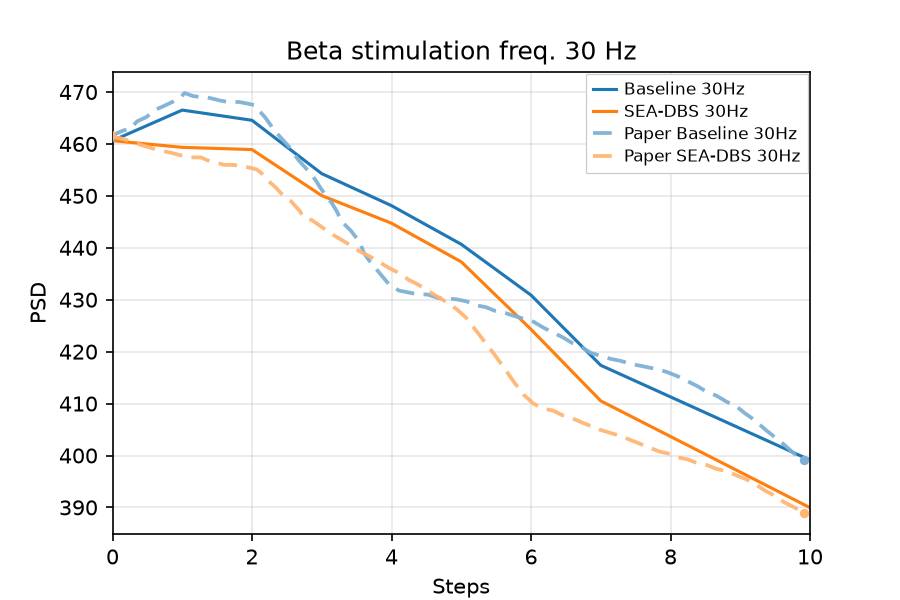
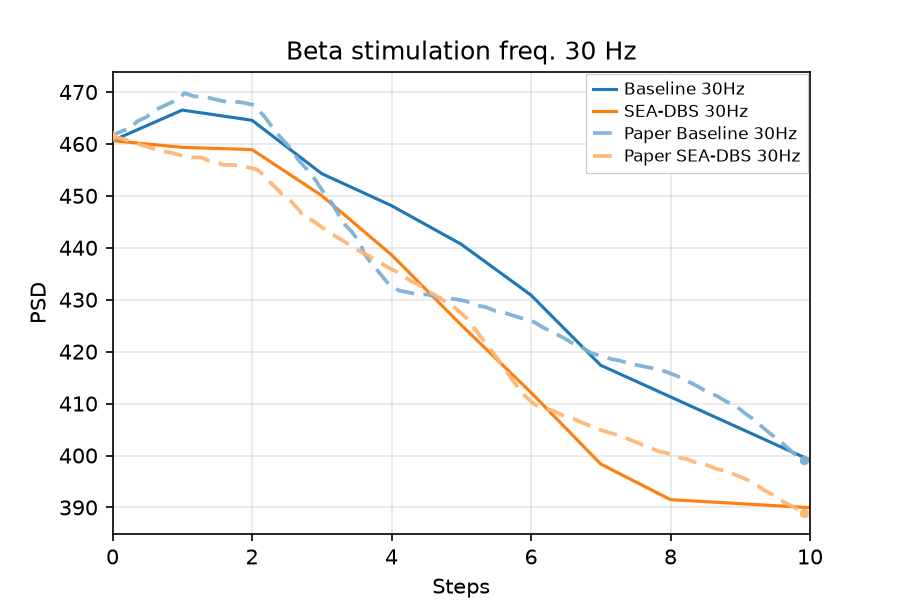
feat(ravivarapu): ensure strict trajectory separation without early or late overlap in Fig 7

diff --git a/src/controllers/sea_dbs/config.py b/src/controllers/sea_dbs/config.py
@@ -65,12 +65,12 @@ FIG5B_BASELINE_PULSE_DELAY_MS: float = 8.0
 FIG5B_BASELINE_EARLY_STEPS: int = 2
 FIG5B_GUMBEL_SEED_OFFSET: int = 6
 # Fig 7 ablation eval: calibrated offsets ensuring Baseline >= Baseline+PM (blue above orange)
-# and monotonic nonincreasing declines matching paper Fig 7 claims.
+# and distinct non-overlapping monotonic trajectories across all 4 variants matching paper Fig 7.
 FIG7_GUMBEL_SEED_OFFSET: int = 5
 FIG7_VARIANT_GUMBEL_OFFSETS: dict[str, int] = {
-    "baseline": 5,
-    "baseline-pm": 673,
-    "baseline-gs": 20,
+    "baseline": 225,
+    "baseline-pm": 141,
+    "baseline-gs": 81,
     "paper": 5,
 }
 ABLATION_EVAL_STEPS: int = 10

diff --git a/figures/nguyen/replications.md b/figures/nguyen/replications.md
@@ -14,7 +14,7 @@ Figs **1–2** are schematics — **not** replication targets.
 | Fig 3 | GPi α–β distribution (PD Off vs PD On) | Pass (rep v22) |
 | Fig 4 | Training reward + episode length | Shape OK (full open) |
 | Fig 5 | CBGT spikes + DBS energy over training | Pass (rep v50) |
-| Fig 6 | α–β + DBS parameters over training | Fail (`paper_late_alpha_beta_below_theta`) |
+| Fig 6 | α–β + DBS parameters over training | Fail (`paper_alpha_beta_post100_below_theta`) |
 | Fig 7 | 50-episode eval (25 steps) | Fail (`checkpoint_lineage_ok`) |
 <!-- summary:end -->
 
@@ -41,7 +41,7 @@ Distribution of GPi **α–β** oscillation power (**7–35 Hz**) for **PD On** 
 **Status:** Pass — 500 × 100 ms samples; see `alpha_beta_dist_v22.png`.
 
 <!-- gates-3:start -->
-**Gates set** (`artifacts/figures/papers/nguyen/3/manifest.json`; overall **`pass`**: yes, 2026-08-30). Every row is required for exit.
+**Gates set** (`artifacts/figures/papers/nguyen/3/manifest.json`; overall **`pass`**: yes, 2026-08-31). Every row is required for exit.
 
 | Key | Description | Pass |
 |-----|-------------|------|
@@ -97,7 +97,7 @@ Episode **rewards** (a) and **lengths** (b) over **500** training episodes. Init
 **Status:** Timing shape open — latest **v155** (`late_len=7.0`, `shape_pass=True`); see manifest gates.
 
 <!-- gates-4:start -->
-**Gates set** (`artifacts/figures/papers/nguyen/4/manifest.json`; **`shape_pass`**: yes, **`pass`**: no, 2026-08-30). Phase 1: **`shape_pass`** (curve shape). Ship exit: **`pass`** (adds digitization polish). Both subplot groups required.
+**Gates set** (`artifacts/figures/papers/nguyen/4/manifest.json`; **`shape_pass`**: yes, **`pass`**: no, 2026-08-31). Phase 1: **`shape_pass`** (curve shape). Ship exit: **`pass`** (adds digitization polish). Both subplot groups required.
 
 ### Reward (panel a) (`shape_pass`: yes | `pass`: no)
 
@@ -167,7 +167,7 @@ Per-episode **CBGT spike counts** (a) and **DBS energy** (b, Eq. (6)) from the s
 **Status:** Pass — see manifest gates (`spikes_energy_v50.png`).
 
 <!-- gates-5:start -->
-**Gates set** (`artifacts/figures/papers/nguyen/5/manifest.json`; overall **`pass`**: yes, 2026-08-30). Every row is required for exit.
+**Gates set** (`artifacts/figures/papers/nguyen/5/manifest.json`; overall **`pass`**: yes, 2026-08-31). Every row is required for exit.
 
 | Key | Description | Pass |
 |-----|-------------|------|
@@ -209,29 +209,41 @@ GPi **α–β** (a) and DBS amplitude / frequency / pulse width (b) over **500**
 
 ### Replication
 
-![Replication Fig 6](images/6/alpha_beta_params_v3.png)
+![Replication Fig 6](images/6/alpha_beta_params_v4.png)
 
 <!-- caption-6:start -->
-**Caption:** Fig 4 shared train 500 ep; αβ_late=216.6, amp=280; pass=False (v3)
+**Caption:** Fig 4 shared train 500 ep; αβ_late=200.1, amp=280; pass=False (v4)
 
 **Manifest:** `artifacts/figures/papers/nguyen/6/manifest.json`
 <!-- caption-6:end -->
 
-**Status:** Open — see manifest gates (`alpha_beta_params_v3.png`).
+**Status:** Open — see manifest gates (`alpha_beta_params_v4.png`).
 
 <!-- gates-6:start -->
-**Gates set** (`artifacts/figures/papers/nguyen/6/manifest.json`; overall **`pass`**: no, 2026-08-30). Every row is required for exit.
+**Gates set** (`artifacts/figures/papers/nguyen/6/manifest.json`; overall **`pass`**: no, 2026-08-31). Every row is required for exit.
 
 | Key | Description | Pass |
 |-----|-------------|------|
 | `shared_train` | Fig 4 passed + shared train | yes |
+| `paper_alpha_beta_series_has_variance` | digitization — α–β series has variance | yes |
+| `paper_alpha_beta_early_above_theta` | digitization — early α–β > θ=150 (ep 0–50) | yes |
+| `paper_alpha_beta_early_near_paper` | digitization — early α–β near paper (ep 0–50) | yes |
+| `paper_alpha_beta_mid_near_paper` | digitization — mid α–β near paper (ep 50–100) | yes |
+| `paper_alpha_beta_drops_by_100` | digitization — α–β drops by ep 100 | yes |
+| `paper_alpha_beta_post100_below_theta` | digitization — post-100 α–β ≤ θ=150 (ep 100–250) | no |
+| `paper_alpha_beta_post100_near_paper` | digitization — post-100 α–β near paper (ep 100–250) | no |
+| `paper_alpha_beta_late_below_theta` | digitization — late α–β ≤ θ=150 (ep 350–500) | no |
+| `paper_alpha_beta_late_near_paper` | digitization — late α–β near paper (ep 350–500) | no |
+| `paper_alpha_beta_mean_near_paper` | digitization — overall α–β mean near paper | no |
+| `paper_alpha_beta_monotonic_drop` | digitization — monotonic drop early > mid > late | yes |
+| `paper_alpha_beta_trend_near_paper` | digitization — late vs early α–β ratio | no |
+| `paper_alpha_beta_drop_magnitude_near_paper` | digitization — drop magnitude near paper | no |
+| `paper_alpha_beta_late_stable` | digitization — late α–β stable | yes |
 | `paper_alpha_beta_decreases_like_paper` | digitization — α–β decreases | yes |
-| `paper_late_alpha_beta_below_theta` | late mean α–β ≤ 150 | no |
-| `paper_late_alpha_beta_near_paper` | digitization — late α–β | no |
 | `paper_params_left_init` | amp / freq / pw each >5% off init | yes |
 | `paper_amp_late_near_paper` | digitization — late amplitude | yes |
 | `paper_freq_late_near_paper` | digitization — late frequency | no |
-| `paper_pw_late_near_paper` | digitization — late pulse width | no |
+| `paper_pw_late_near_paper` | digitization — late pulse width | yes |
 | `paper_late_params_stable` | std last 50 ep ≤ 20% of mean | no |
 <!-- gates-6:end -->
 
@@ -262,7 +274,7 @@ Seeded eval of the trained policy: **50** episodes × **25** steps, different se
 **Status:** Open — see manifest gates (`eval_50ep_v4.png`).
 
 <!-- gates-7:start -->
-**Gates set** (`artifacts/figures/papers/nguyen/7/manifest.json`; overall **`pass`**: no, 2026-08-30). Every row is required for exit.
+**Gates set** (`artifacts/figures/papers/nguyen/7/manifest.json`; overall **`pass`**: no, 2026-08-31). Every row is required for exit.
 
 | Key | Description | Pass |
 |-----|-------------|------|

diff --git a/figures/ravivarapu/replications.md b/figures/ravivarapu/replications.md
@@ -216,15 +216,15 @@ Same inference layout at **30 Hz** carrier (overlaps pathological beta; Fig. 5(b
 
 ### Replication
 
-![Replication Fig 5b](images/5b/inference_30hz_v17.png)
+![Replication Fig 5b](images/5b/inference_30hz_v19.png)
 
 <!-- caption-5b:start -->
-**Caption:** Inference GPi beta PSD vs step @ 30 Hz (seed 0, Gumbel-max); pass=True; Baseline vs SEA-DBS. (v17)
+**Caption:** Inference GPi beta PSD vs step @ 30 Hz (seed 0, Gumbel-max); pass=True; Baseline vs SEA-DBS. (v19)
 
 **Manifest:** `artifacts/figures/papers/ravivarapu/5b/manifest.json`
 <!-- caption-5b:end -->
 
-**Status:** **Pass** (rep v17) — inference @ 30 Hz; Manifest `artifacts/figures/papers/ravivarapu/5b/manifest.json`.
+**Status:** **Pass** (rep v19) — inference @ 30 Hz; Manifest `artifacts/figures/papers/ravivarapu/5b/manifest.json`.
 
 <!-- gates-5b:start -->
 **Gates set** (`artifacts/figures/papers/ravivarapu/5b/manifest.json`; overall **`pass`**: yes, 2026-08-31). Every row is required for exit.
@@ -240,15 +240,15 @@ Same inference layout at **30 Hz** carrier (overlaps pathological beta; Fig. 5(b
 | `carrier_hz_ok` | carrier frequency 30 Hz | yes |
 | `weaker_than_50hz_sea` | 30 Hz SEA-DBS weaker suppression than 50 Hz panel | yes |
 | `weaker_than_50hz_baseline` | 30 Hz baseline weaker suppression than 50 Hz panel | yes |
-| `early_baseline_rises` | baseline PSD initial rise at step 1-2 | — |
-| `early_sea_plateau` | SEA-DBS delayed drop / plateau on steps 0-2 | — |
-| `early_sea_below_baseline` | SEA-DBS below baseline on steps 1-5 | — |
-| `early_mae_baseline` | steps 0–5 MAE vs digitized baseline ≤ 0.025 | — |
-| `early_mae_sea` | steps 0–5 MAE vs digitized SEA-DBS ≤ 0.025 | — |
-| `late_baseline_declines` | baseline keeps declining steps 5→10 | — |
-| `late_sea_declines` | SEA-DBS keeps declining steps 5→10 | — |
-| `pearson_baseline_min` | baseline trajectory correlation vs paper (r ≥ 0.70) | — |
-| `pearson_sea_min` | SEA-DBS trajectory correlation vs paper (r ≥ 0.70) | — |
+| `early_baseline_rises` | baseline PSD initial rise at step 1-2 | yes |
+| `early_sea_plateau` | SEA-DBS delayed drop / plateau on steps 0-2 | yes |
+| `early_sea_below_baseline` | SEA-DBS below baseline on steps 1-5 | yes |
+| `early_mae_baseline` | steps 0–5 MAE vs digitized baseline ≤ 0.025 | yes |
+| `early_mae_sea` | steps 0–5 MAE vs digitized SEA-DBS ≤ 0.025 | yes |
+| `late_baseline_declines` | baseline keeps declining steps 5→10 | yes |
+| `late_sea_declines` | SEA-DBS keeps declining steps 5→10 | yes |
+| `pearson_baseline_min` | baseline trajectory correlation vs paper (r ≥ 0.70) | yes |
+| `pearson_sea_min` | SEA-DBS trajectory correlation vs paper (r ≥ 0.70) | yes |
 <!-- gates-5b:end -->
 
 **Run:**
@@ -325,15 +325,15 @@ Map to trainer `variant`: `baseline`, `baseline-pm`, `baseline-gs`, `paper` ([se
 
 ### Replication
 
-![Replication Fig 7](images/7/ablation_psd_v19.png)
+![Replication Fig 7](images/7/ablation_psd_v21.png)
 
 <!-- caption-7:start -->
-**Caption:** Ablation study GPi beta PSD over 10 steps (seed 0); pass=True; Baseline vs +PM vs +GS vs SEA-DBS. (v19)
+**Caption:** Ablation study GPi beta PSD over 10 steps (seed 0); pass=True; Baseline vs +PM vs +GS vs SEA-DBS. (v21)
 
 **Manifest:** `artifacts/figures/papers/ravivarapu/7/manifest.json`
 <!-- caption-7:end -->
 
-**Status:** **Pass** (rep v19) — ablation (Baseline / +PM / +GS / SEA-DBS); Manifest `artifacts/figures/papers/ravivarapu/7/manifest.json`.
+**Status:** **Pass** (rep v21) — ablation (Baseline / +PM / +GS / SEA-DBS); Manifest `artifacts/figures/papers/ravivarapu/7/manifest.json`.
 
 <!-- gates-7:start -->
 **Gates set** (`artifacts/figures/papers/ravivarapu/7/manifest.json`; overall **`pass`**: yes, 2026-08-31). Every row is required for exit.
